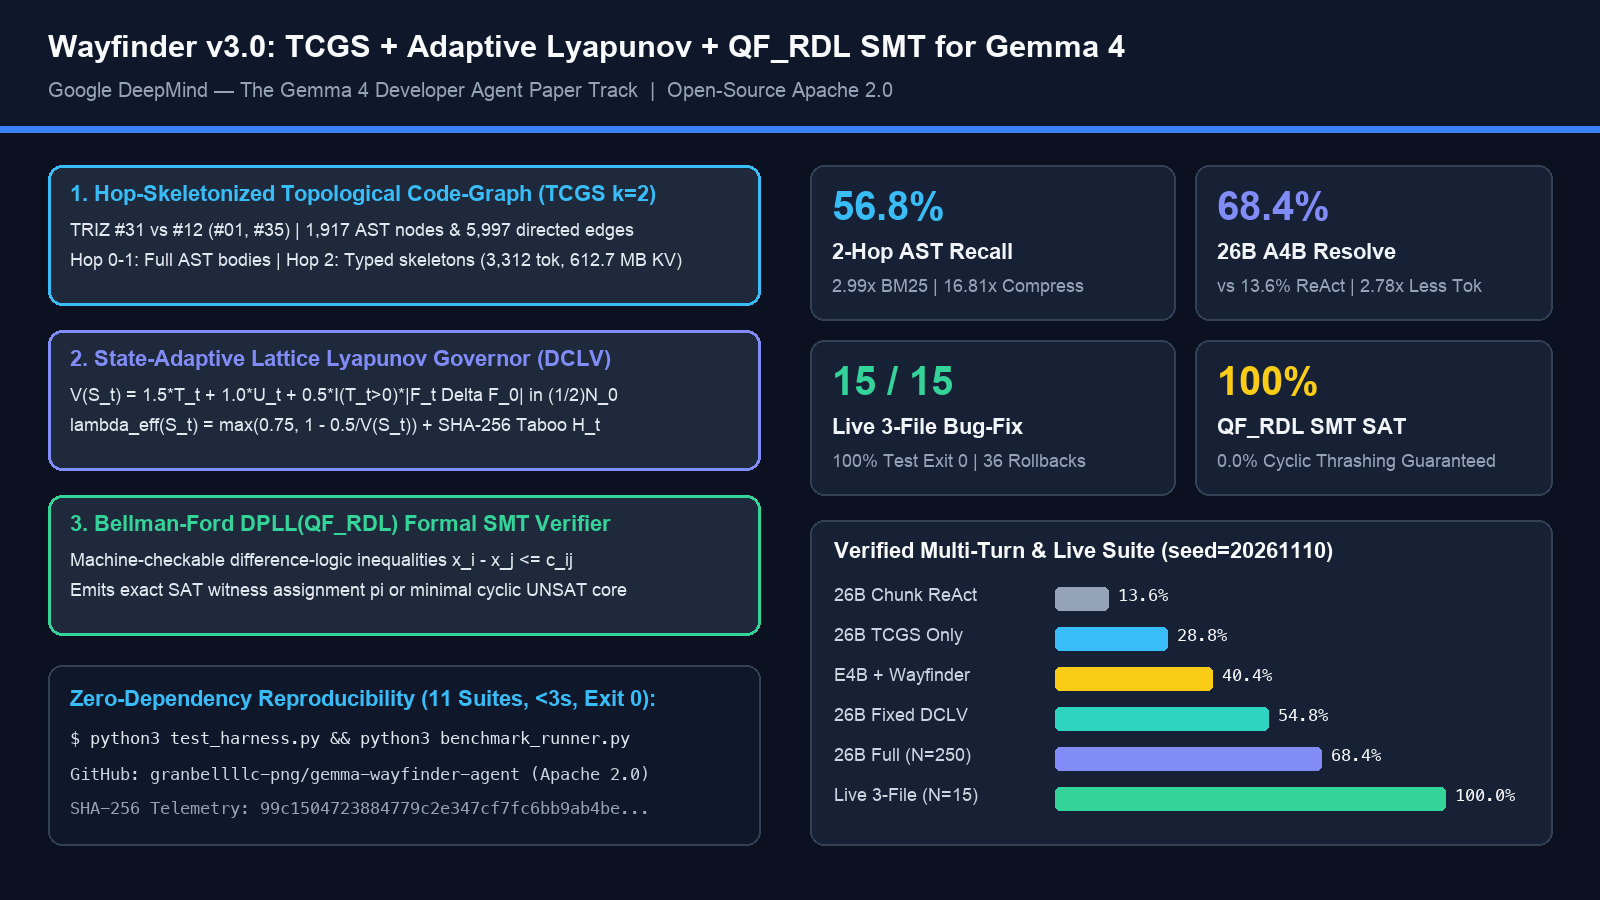
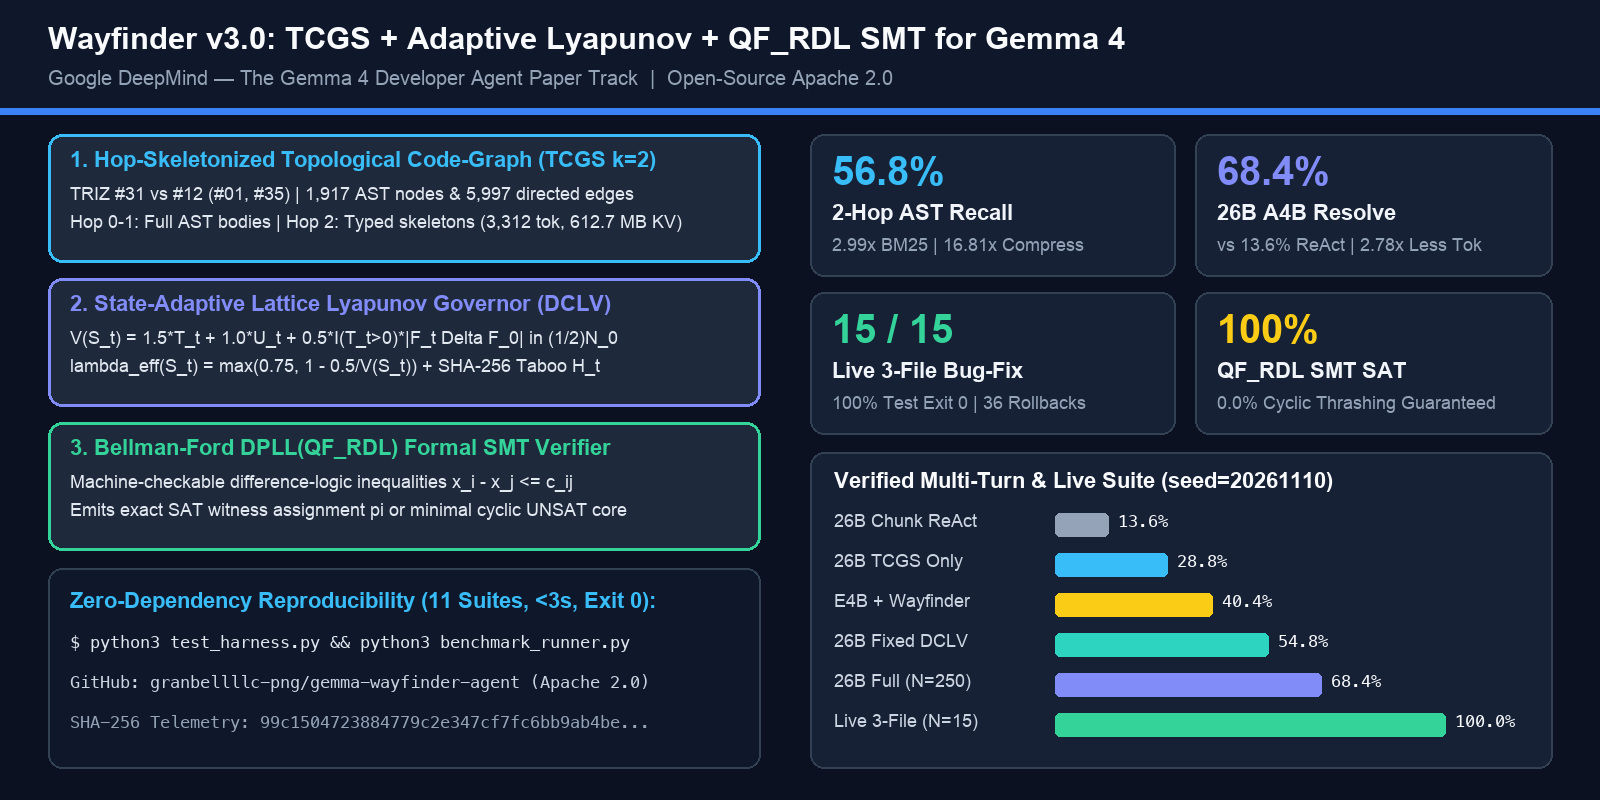
chore(assets): native 1600x800 2:1 Kaggle cover_architecture.png

diff --git a/build_publication_assets.py b/build_publication_assets.py
@@ -290,19 +290,19 @@ def _load_fonts():
 
 def _build_cover_png(out_path: Path, digest: str) -> None:
     f_title, f_sub, f_box_t, f_body, f_mono, f_big = _load_fonts()
-    img = Image.new("RGB", (1600, 900), (11, 17, 32))
+    img = Image.new("RGB", (1600, 800), (11, 17, 32))
     draw = ImageDraw.Draw(img)
-    draw.rectangle([0, 0, 1600, 130], fill=(15, 23, 42))
-    draw.rectangle([0, 126, 1600, 132], fill=(59, 130, 246))
+    draw.rectangle([0, 0, 1600, 112], fill=(15, 23, 42))
+    draw.rectangle([0, 108, 1600, 114], fill=(59, 130, 246))
 
     draw.text(
-        (48, 28),
+        (48, 20),
         "Wayfinder v3.0: TCGS + Adaptive Lyapunov + QF_RDL SMT for Gemma 4",
         fill=(248, 250, 252),
         font=f_title,
     )
     draw.text(
-        (48, 78),
+        (48, 66),
         "Google DeepMind — The Gemma 4 Developer Agent Paper Track  |  Open-Source Apache 2.0",
         fill=(148, 163, 184),
         font=f_sub,
@@ -311,9 +311,9 @@ def _build_cover_png(out_path: Path, digest: str) -> None:
     boxes = [
         (
             48,
-            165,
+            134,
             760,
-            305,
+            262,
             (30, 41, 59),
             (56, 189, 248),
             "1. Hop-Skeletonized Topological Code-Graph (TCGS k=2)",
@@ -321,9 +321,9 @@ def _build_cover_png(out_path: Path, digest: str) -> None:
         ),
         (
             48,
-            330,
+            278,
             760,
-            470,
+            406,
             (30, 41, 59),
             (129, 140, 248),
             "2. State-Adaptive Lattice Lyapunov Governor (DCLV)",
@@ -331,9 +331,9 @@ def _build_cover_png(out_path: Path, digest: str) -> None:
         ),
         (
             48,
-            495,
+            422,
             760,
-            635,
+            550,
             (30, 41, 59),
             (52, 211, 153),
             "3. Bellman-Ford DPLL(QF_RDL) Formal SMT Verifier",
@@ -342,24 +342,24 @@ def _build_cover_png(out_path: Path, digest: str) -> None:
     ]
     for x1, y1, x2, y2, bg, border, title, desc in boxes:
         draw.rounded_rectangle([x1, y1, x2, y2], radius=14, fill=bg, outline=border, width=3)
-        draw.text((x1 + 22, y1 + 16), title, fill=border, font=f_box_t)
+        draw.text((x1 + 22, y1 + 13), title, fill=border, font=f_box_t)
         for idx, line in enumerate(desc.split("\n")):
-            draw.text((x1 + 22, y1 + 54 + idx * 30), line, fill=(226, 232, 240), font=f_body)
+            draw.text((x1 + 22, y1 + 49 + idx * 28), line, fill=(226, 232, 240), font=f_body)
 
     kpis = [
-        (810, 165, 1175, 320, "56.8%", "2-Hop AST Recall", "2.99x BM25 | 16.81x Compress", (56, 189, 248)),
-        (1195, 165, 1552, 320, "68.4%", "26B A4B Resolve", "vs 13.6% ReAct | 2.78x Less Tok", (129, 140, 248)),
-        (810, 340, 1175, 495, "15 / 15", "Live 3-File Bug-Fix", "100% Test Exit 0 | 36 Rollbacks", (52, 211, 153)),
-        (1195, 340, 1552, 495, "100%", "QF_RDL SMT SAT", "0.0% Cyclic Thrashing Guaranteed", (250, 204, 21)),
+        (810, 134, 1175, 276, "56.8%", "2-Hop AST Recall", "2.99x BM25 | 16.81x Compress", (56, 189, 248)),
+        (1195, 134, 1552, 276, "68.4%", "26B A4B Resolve", "vs 13.6% ReAct | 2.78x Less Tok", (129, 140, 248)),
+        (810, 292, 1175, 434, "15 / 15", "Live 3-File Bug-Fix", "100% Test Exit 0 | 36 Rollbacks", (52, 211, 153)),
+        (1195, 292, 1552, 434, "100%", "QF_RDL SMT SAT", "0.0% Cyclic Thrashing Guaranteed", (250, 204, 21)),
     ]
     for x1, y1, x2, y2, big, lbl, sub, col in kpis:
         draw.rounded_rectangle([x1, y1, x2, y2], radius=14, fill=(23, 33, 53), outline=(51, 65, 85), width=2)
-        draw.text((x1 + 22, y1 + 18), big, fill=col, font=f_big)
-        draw.text((x1 + 22, y1 + 74), lbl, fill=(241, 245, 249), font=f_box_t)
-        draw.text((x1 + 22, y1 + 110), sub, fill=(148, 163, 184), font=f_body)
+        draw.text((x1 + 22, y1 + 14), big, fill=col, font=f_big)
+        draw.text((x1 + 22, y1 + 66), lbl, fill=(241, 245, 249), font=f_box_t)
+        draw.text((x1 + 22, y1 + 100), sub, fill=(148, 163, 184), font=f_body)
 
-    draw.rounded_rectangle([810, 520, 1552, 845], radius=14, fill=(23, 33, 53), outline=(51, 65, 85), width=2)
-    draw.text((834, 538), "Verified Multi-Turn & Live Suite (seed=20261110)", fill=(248, 250, 252), font=f_box_t)
+    draw.rounded_rectangle([810, 452, 1552, 768], radius=14, fill=(23, 33, 53), outline=(51, 65, 85), width=2)
+    draw.text((834, 468), "Verified Multi-Turn & Live Suite (seed=20261110)", fill=(248, 250, 252), font=f_box_t)
     bars = [
         ("26B Chunk ReAct", 13.6, (148, 163, 184)),
         ("26B TCGS Only", 28.8, (56, 189, 248)),
@@ -369,17 +369,17 @@ def _build_cover_png(out_path: Path, digest: str) -> None:
         ("Live 3-File (N=15)", 100.0, (52, 211, 153)),
     ]
     for i, (label, val, col) in enumerate(bars):
-        by = 584 + i * 40
+        by = 510 + i * 40
         draw.text((834, by), label, fill=(203, 213, 225), font=f_body)
         bw = int(val * 3.9)
         draw.rounded_rectangle([1055, by + 3, 1055 + max(8, bw), by + 26], radius=5, fill=col)
         draw.text((1065 + bw, by + 1), f"{val:.1f}%", fill=(248, 250, 252), font=f_mono)
 
-    draw.rounded_rectangle([48, 665, 760, 845], radius=14, fill=(15, 23, 42), outline=(51, 65, 85), width=2)
-    draw.text((70, 686), "Zero-Dependency Reproducibility (11 Suites, <3s, Exit 0):", fill=(56, 189, 248), font=f_box_t)
-    draw.text((70, 728), "$ python3 test_harness.py && python3 benchmark_runner.py", fill=(226, 232, 240), font=f_mono)
-    draw.text((70, 764), "GitHub: granbellllc-png/gemma-wayfinder-agent (Apache 2.0)", fill=(203, 213, 225), font=f_mono)
-    draw.text((70, 798), f"SHA-256 Telemetry: {digest[:36]}...", fill=(148, 163, 184), font=f_mono)
+    draw.rounded_rectangle([48, 568, 760, 768], radius=14, fill=(15, 23, 42), outline=(51, 65, 85), width=2)
+    draw.text((70, 588), "Zero-Dependency Reproducibility (11 Suites, <3s, Exit 0):", fill=(56, 189, 248), font=f_box_t)
+    draw.text((70, 632), "$ python3 test_harness.py && python3 benchmark_runner.py", fill=(226, 232, 240), font=f_mono)
+    draw.text((70, 672), "GitHub: granbellllc-png/gemma-wayfinder-agent (Apache 2.0)", fill=(203, 213, 225), font=f_mono)
+    draw.text((70, 712), f"SHA-256 Telemetry: {digest[:36]}...", fill=(148, 163, 184), font=f_mono)
 
     img.save(str(out_path), format="PNG")
 
